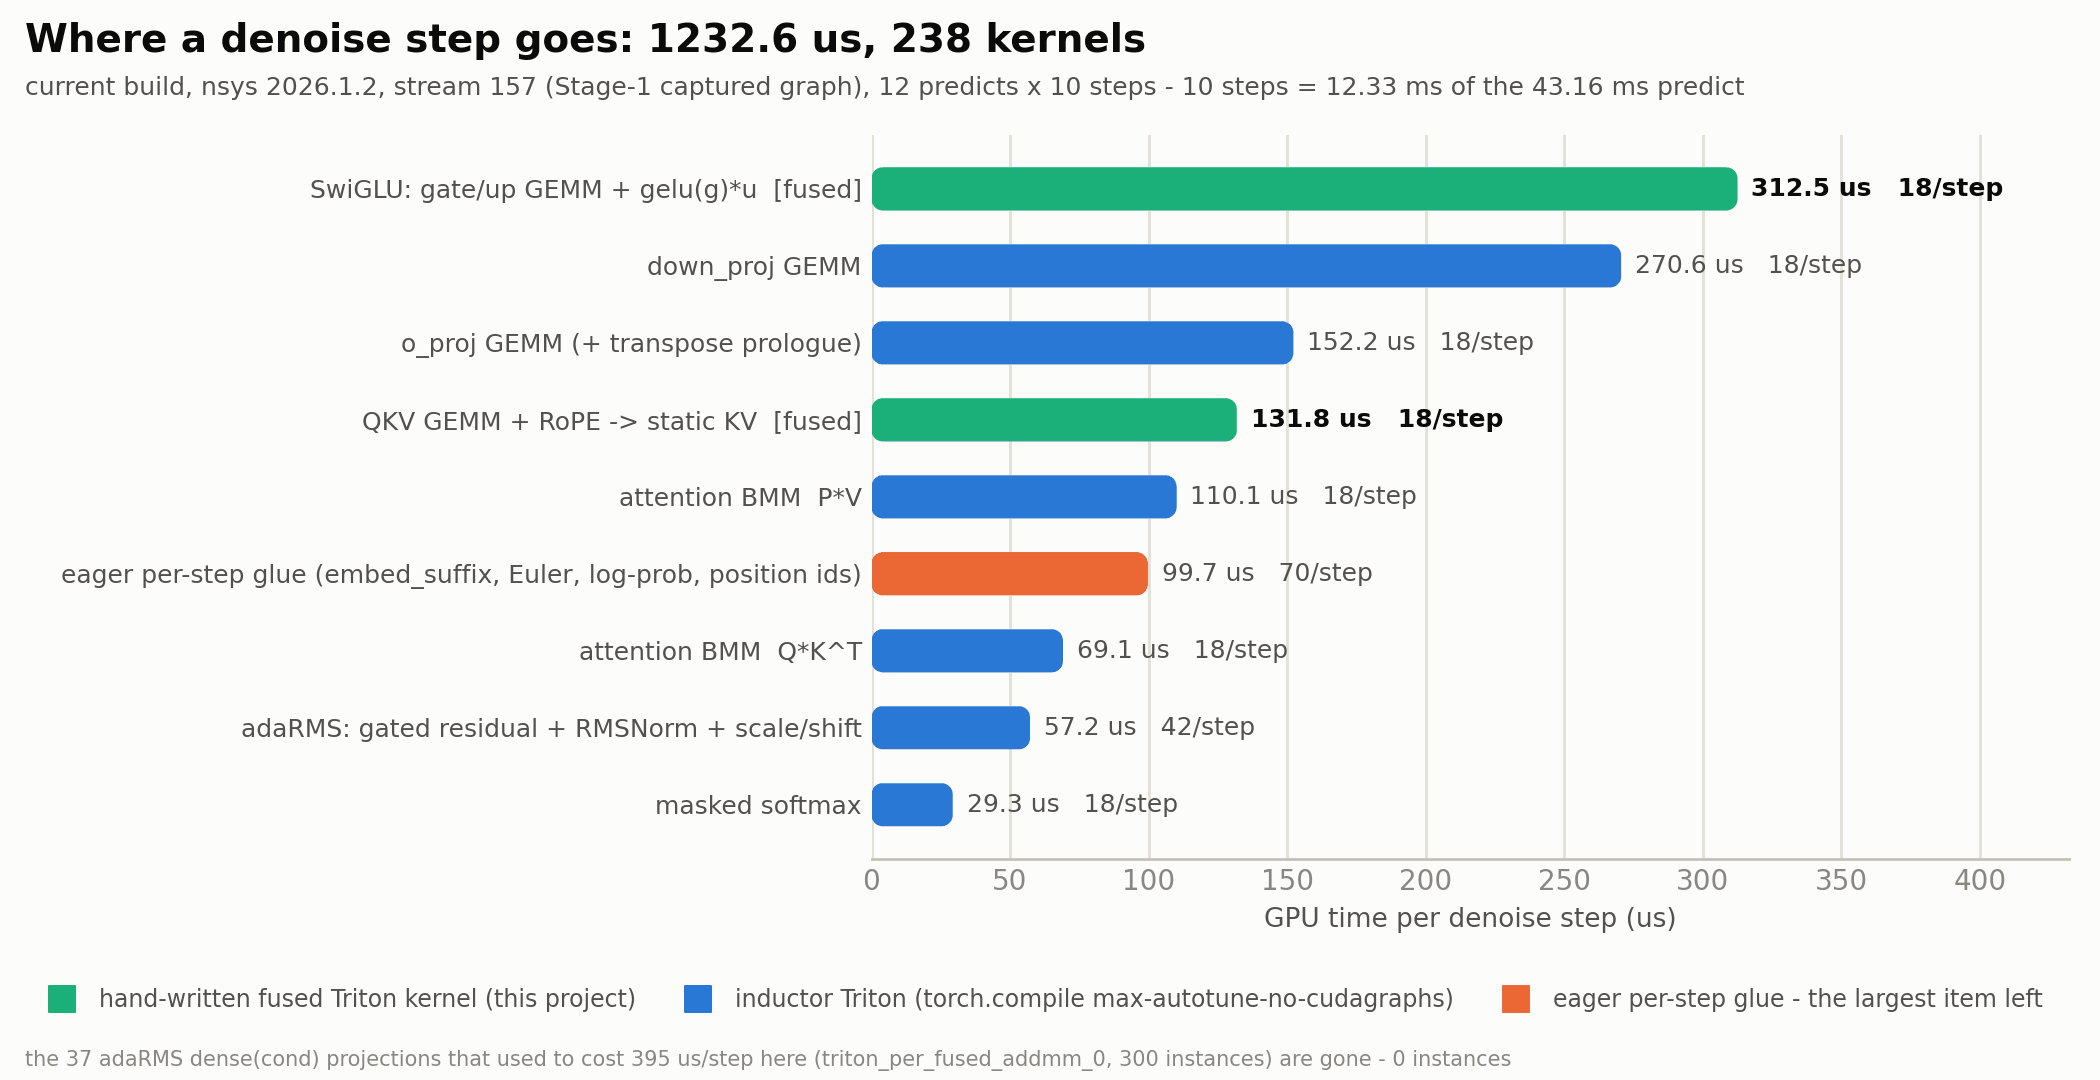
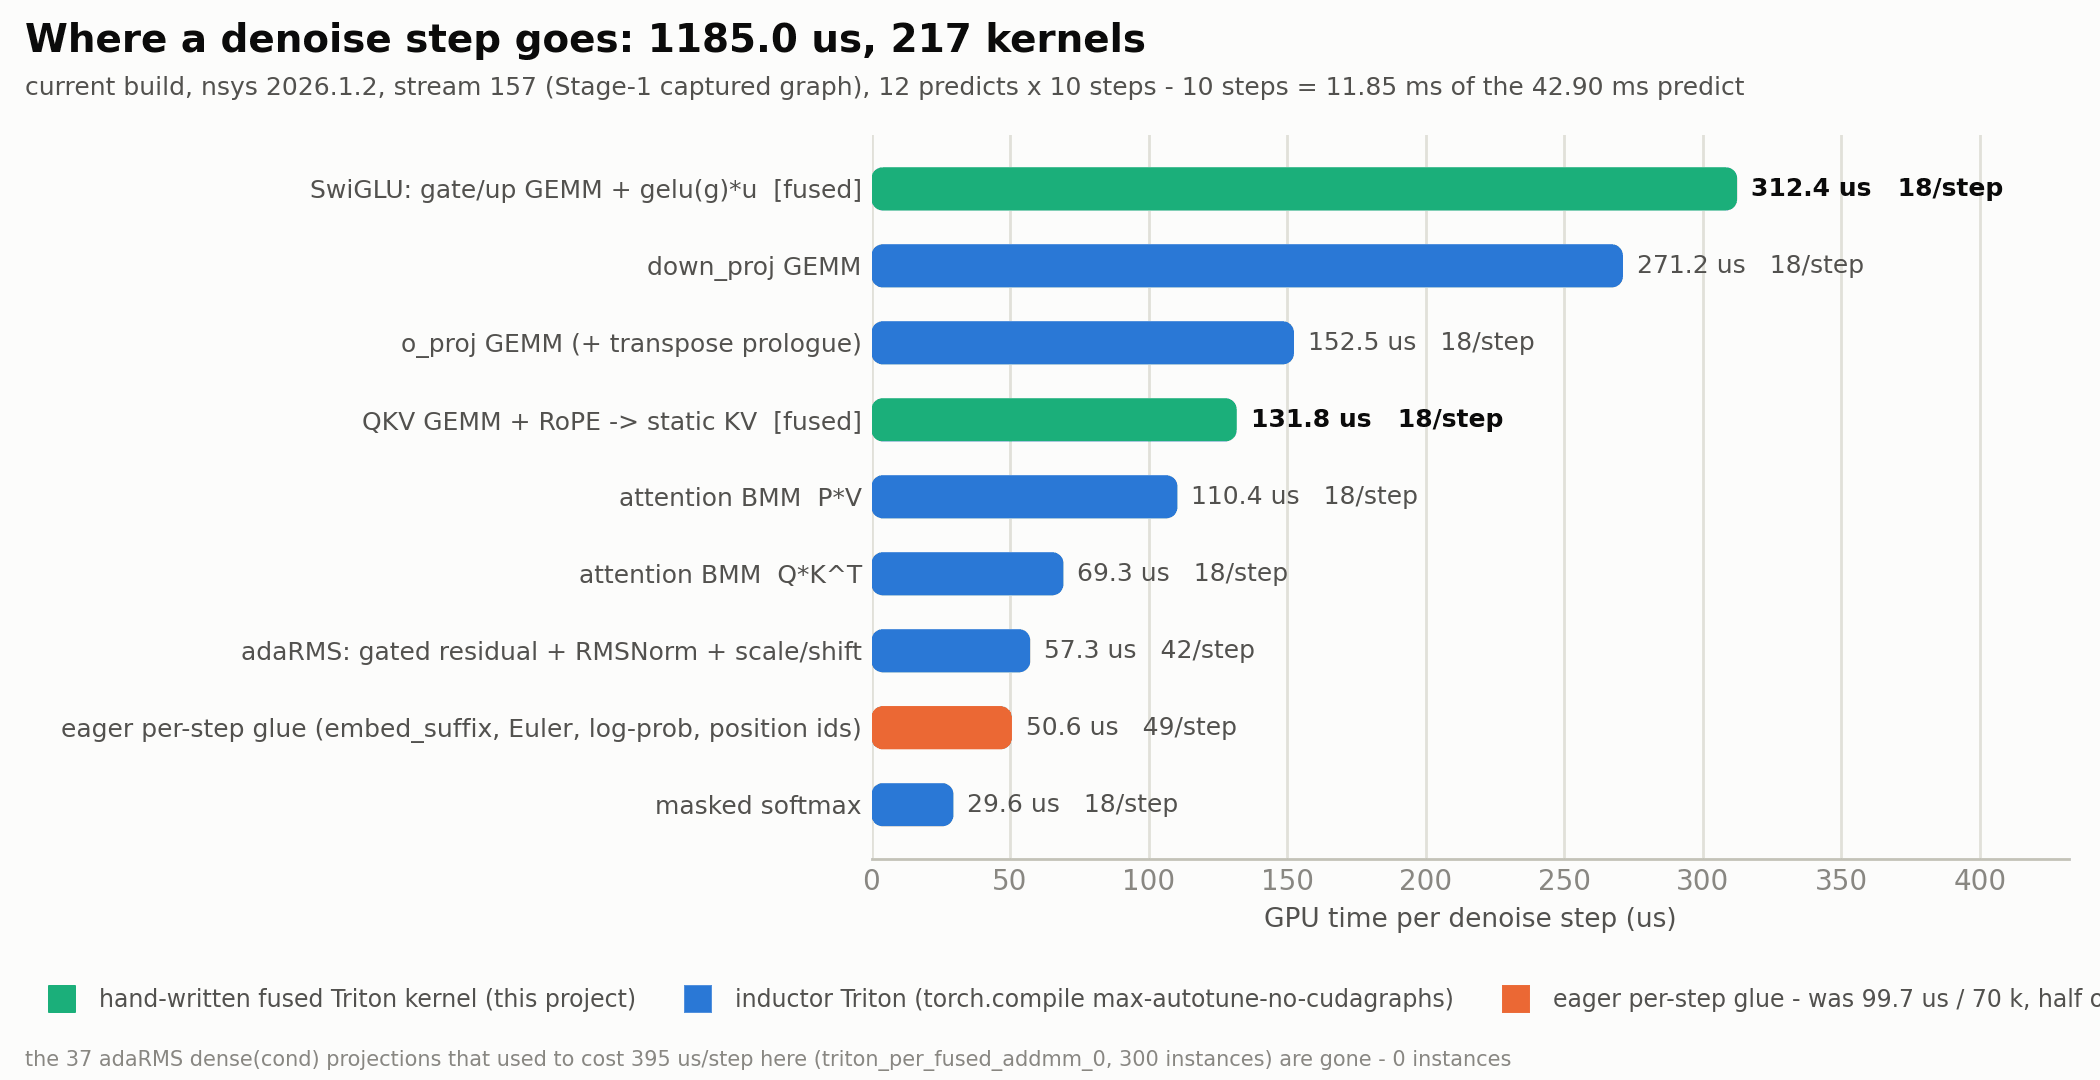
docs: measure the dead-adarms_cond removal -- -0.30 ms paired, 238 -> 217 kernels/step
6aab03c shipped the change with "timing not measured" (it was written on a box
without the GB202 the ledger is kept on). Measured it properly on the GB202, and
the effect is larger than the commit message guessed: it is resolvable, not noise.

Paired A/B, same session, same source, only RLINF_SKIP_DEAD_ADARMS_COND flipped,
4 alternating rounds x 30 iters after 8 warmup, serialized:

  43.20 -> 42.90 ms,  delta = -0.30 ms  (sd 0.07, n=4, 4/4 rounds negative,
                                         spread -0.20 .. -0.37)

nsys 2026.1.2, both arms shot back to back, stream 157 (Stage-1 captured graph):

  kernels/step   238 -> 217   (-21: 2 gemvx time-MLP + 4 cublasLt helpers
                               + 15 cos/sin/silu/fp64-sinusoid elementwise)
  GPU busy       1232.3 -> 1185.0 us/step   (-47.3)
  step wall      1294.0 -> 1242.7 us        (-51.3 = -0.51 ms/predict)

No GEMM, attention or Triton kernel changed count or time; prefix stream 7 is
673 kernels/predict on both arms. The e2e -0.30 ms is smaller than the -0.51 ms
on the timeline; the difference sits in prefix run-to-run drift (28.00 -> 28.13
ms/predict), not in this change.

Bit-exactness re-run with the switch genuinely toggling: 5 dumps (both compile
modes x switch on/off, plus the RLinf reference arm), all 10 pairs bitwise equal,
max|delta| = 0.00e+00, 0/300 elements differing. Stage 1 still captures on both
arms: denoise/expert_forward NVTX = 0/predict, a single graphId.
[…]

diff --git a/docs/make_charts.py b/docs/make_charts.py
@@ -187,6 +187,8 @@ LEDGER = [
      "kernel_fusion/RESULTS_fusion.md (own paired A/B: 44.87 -> 43.74, -1.14)"),
     ("standalone package + --stage1", 43.16, -0.58,
      "20260728_stage1_pi05infer_pro5k/ab_stage1_summary.txt (paired 44.08 -> 43.16)"),
+    ("+ drop the dead timestep conditioning", 42.90, -0.30,
+     "20260728_adarms_cond/ab_summary.txt (paired 43.20 -> 42.90, sd 0.07, n=4)"),
 ]
 
 # dexmal/realtime-vla @ b86a942, our config, our GPU, same day, real (non-zero)
@@ -238,7 +240,7 @@ def chart_ledger(mode: str) -> None:
     ax.set_xlabel("end-to-end predict_action_batch latency (ms), plain wall clock",
                   fontsize=9.5)
 
-    fig.suptitle("pi0.5 action expert, bs=1: 52.60 -> 43.16 ms  (-9.44 ms, -17.9%)",
+    fig.suptitle("pi0.5 action expert, bs=1: 52.60 -> 42.90 ms  (-9.70 ms, -18.4%)",
                  x=0.012, ha="left", fontsize=14, fontweight="bold", color=t["ink"])
     fig.text(0.012, 0.895,
              "every step bit-exact against the unoptimised path (max|delta| = 0.00e+00); "
@@ -255,31 +257,31 @@ def chart_ledger(mode: str) -> None:
 # --------------------------------------------------------------------------
 # Chart 2 - denoise per-kernel breakdown, current build
 # --------------------------------------------------------------------------
-# Source: 20260728_stage1_pi05infer_pro5k/stage1_on.sqlite, stream 157
+# Source: 20260728_adarms_cond/prof_skip1.sqlite, stream 157
 # (the hand-captured Stage-1 denoise graph), 12 predicts x 10 steps = 120 steps.
-# 238 kernels/step, 1232.6 us/step.
+# 217 kernels/step, 1185.0 us/step.
 #
 # (label, us_per_step, kernels_per_step, group)
 #   group 0 = inductor-generated Triton
 #   group 1 = eager per-step glue (the remaining headroom)
 #   group 2 = our hand-written fused kernels
 DENOISE = [
-    ("SwiGLU: gate/up GEMM + gelu(g)*u  [fused]", 312.53, 18, 2),
-    ("down_proj GEMM", 270.56, 18, 0),
-    ("o_proj GEMM (+ transpose prologue)", 152.24, 18, 0),
-    ("QKV GEMM + RoPE -> static KV  [fused]", 131.85, 18, 2),
-    ("attention BMM  P*V", 110.10, 18, 0),
-    ("eager per-step glue (embed_suffix, Euler, log-prob, position ids)", 99.71, 70, 1),
-    ("attention BMM  Q*K^T", 69.09, 18, 0),
-    ("adaRMS: gated residual + RMSNorm + scale/shift", 57.20, 42, 0),
-    ("masked softmax", 29.30, 18, 0),
+    ("SwiGLU: gate/up GEMM + gelu(g)*u  [fused]", 312.41, 18, 2),
+    ("down_proj GEMM", 271.19, 18, 0),
+    ("o_proj GEMM (+ transpose prologue)", 152.46, 18, 0),
+    ("QKV GEMM + RoPE -> static KV  [fused]", 131.79, 18, 2),
+    ("attention BMM  P*V", 110.40, 18, 0),
+    ("attention BMM  Q*K^T", 69.27, 18, 0),
+    ("adaRMS: gated residual + RMSNorm + scale/shift", 57.29, 42, 0),
+    ("eager per-step glue (embed_suffix, Euler, log-prob, position ids)", 50.63, 49, 1),
+    ("masked softmax", 29.57, 18, 0),
 ]
-DENOISE_TOTAL_US = 1232.58
-DENOISE_TOTAL_KERNELS = 238.0
+DENOISE_TOTAL_US = 1185.01
+DENOISE_TOTAL_KERNELS = 217.0
 
 GROUP_NAMES = {
     0: "inductor Triton (torch.compile max-autotune-no-cudagraphs)",
-    1: "eager per-step glue - the largest item left",
+    1: "eager per-step glue - was 99.7 us / 70 k, half of it was dead code",
     2: "hand-written fused Triton kernel (this project)",
 }
 
@@ -365,11 +367,11 @@ def chart_denoise(mode: str) -> None:
                ncol=3, frameon=False, fontsize=8.5, labelcolor=t["ink2"],
                handletextpad=0.6, borderpad=0.2, columnspacing=1.6)
 
-    fig.suptitle("Where a denoise step goes: 1232.6 us, 238 kernels", x=0.012,
+    fig.suptitle("Where a denoise step goes: 1185.0 us, 217 kernels", x=0.012,
                  ha="left", fontsize=14, fontweight="bold", color=t["ink"])
     fig.text(0.012, 0.912,
              "current build, nsys 2026.1.2, stream 157 (Stage-1 captured graph), "
-             "12 predicts x 10 steps - 10 steps = 12.33 ms of the 43.16 ms predict",
+             "12 predicts x 10 steps - 10 steps = 11.85 ms of the 42.90 ms predict",
              ha="left", fontsize=9, color=t["ink2"])
     fig.text(0.012, 0.013,
              "the 37 adaRMS dense(cond) projections that used to cost 395 us/step here "
